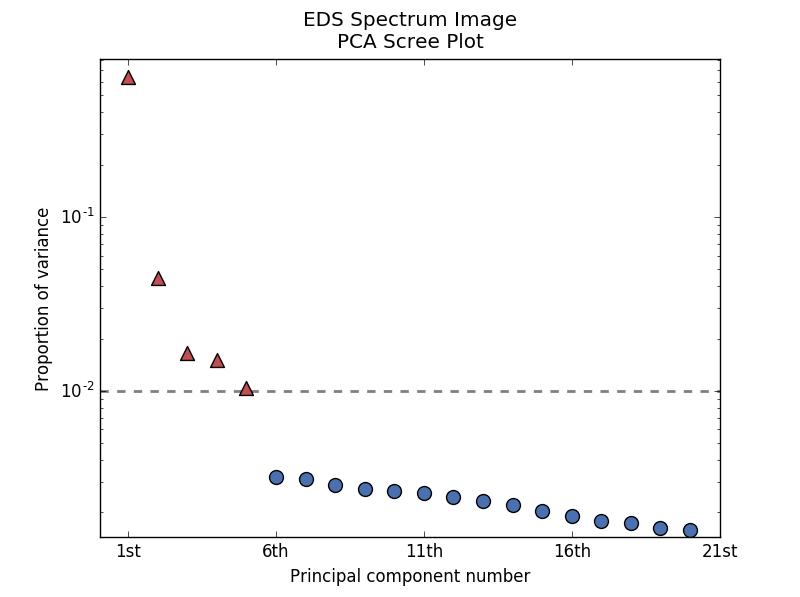
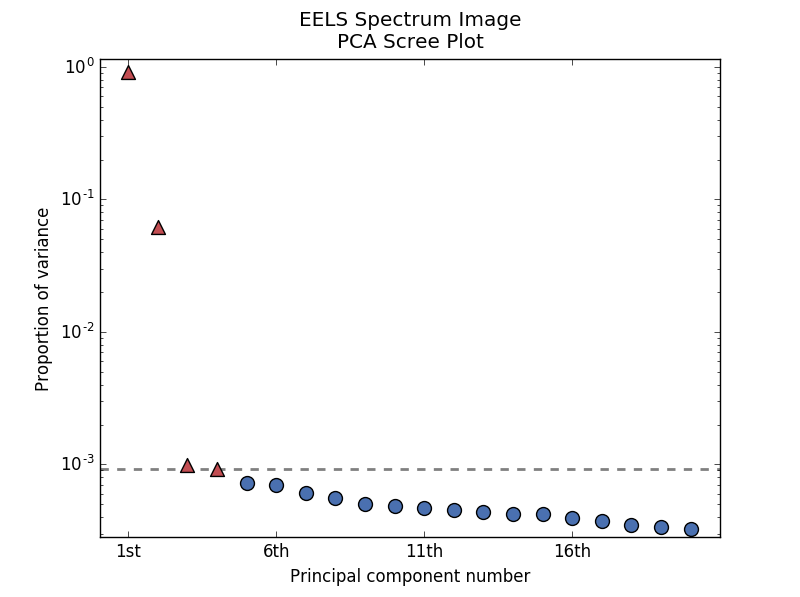
Update documentation to match recent changes

diff --git a/hyperspy/learn/mva.py b/hyperspy/learn/mva.py
@@ -1036,12 +1036,13 @@ class MVA():
         ax : matplotlib.axes
 
 
-        See Also:
-        ---------
+        See Also
+        --------
 
-        `get_explained_variance_ration`, `decomposition`,
-        `get_decomposition_loadings`,
-        `get_decomposition_factors`, `plot_explained_variance_ratio`.
+        :py:meth:`~.learn.mva.MVA.decomposition`,
+        :py:meth:`~.learn.mva.MVA.get_explained_variance_ratio`,
+        :py:meth:`~.signal.MVATools.get_decomposition_loadings`,
+        :py:meth:`~.signal.MVATools.get_decomposition_factors`
 
         """
         s = self.get_explained_variance_ratio()

diff --git a/doc/user_guide/mva.rst b/doc/user_guide/mva.rst
@@ -79,11 +79,11 @@ of the data (or equivalently, the number of components that should be retained -
 see below).
 
 To obtain a scree plot for your dataset, run the
-:py:meth:`~.learn.mva.MVA.scree_plot` method:
+:py:meth:`~.learn.mva.MVA.plot_explained_variance_ratio` method:
 
 .. code-block:: python
 
-    >>> ax = s.scree_plot(n=20)
+    >>> ax = s.plot_explained_variance_ratio(n=20)
 
 .. figure::  images/screeplot.png
    :align:   center
@@ -91,27 +91,34 @@ To obtain a scree plot for your dataset, run the
 
    PCA scree plot
 
-The default options for this method will automatically insert a cutoff value
-at 1% of the variance, and style the components above this value distinctly
-from the remaining components. This option (together with many others), can be
-customized to develop a figure of your liking. See the documentation of
-:py:meth:`~.learn.mva.MVA.scree_plot` for more details.
+The default options for this method will plot a bare scree plot, but the
+method's arguments allow for a great deal of customization. For
+example, by specifying a ``threshold`` value, a cutoff line will be drawn at
+the total variance specified, and the components above this value will be
+styled distinctly from the remaining components to show which are considered
+signal, as opposed to noise. Alternatively, by providing an integer value
+for ``threshold``, the line will be drawn at the specified component (see
+below). These options (together with many others), can be customized to
+develop a figure of your liking. See the documentation of
+:py:meth:`~.learn.mva.MVA.plot_explained_variance_ratio` for more details.
 
-Note that in the figure, the first component has index 0. This is because
+Note that in the above figure, the first component has index 0. This is because
 Python uses zero based indexing i.e. the initial element of a sequence is found
 at index 0. To switch to a "number-based" (rather than "index-based")
-notation, provide a dictionary defining the axis type to the method:
+notation, specify the ``xaxis_type`` parameter:
 
 .. code-block:: python
 
-    >>> ax = s.scree_plot(n=20, xaxis={'type':'number',
-    >>>                                'labeling':'ordinal'})
+    >>> ax = s.plot_explained_variance_ratio(n=20,
+    >>>                                      threshold=4,
+    >>>                                      xaxis_type='number')
 
 .. figure::  images/screeplot2.png
    :align:   center
    :width:   500
 
-   PCA scree plot with number-based axis labeling
+   PCA scree plot with number-based axis labeling and a threshold value
+   specified
 
 .. versionadded:: 0.7
 
